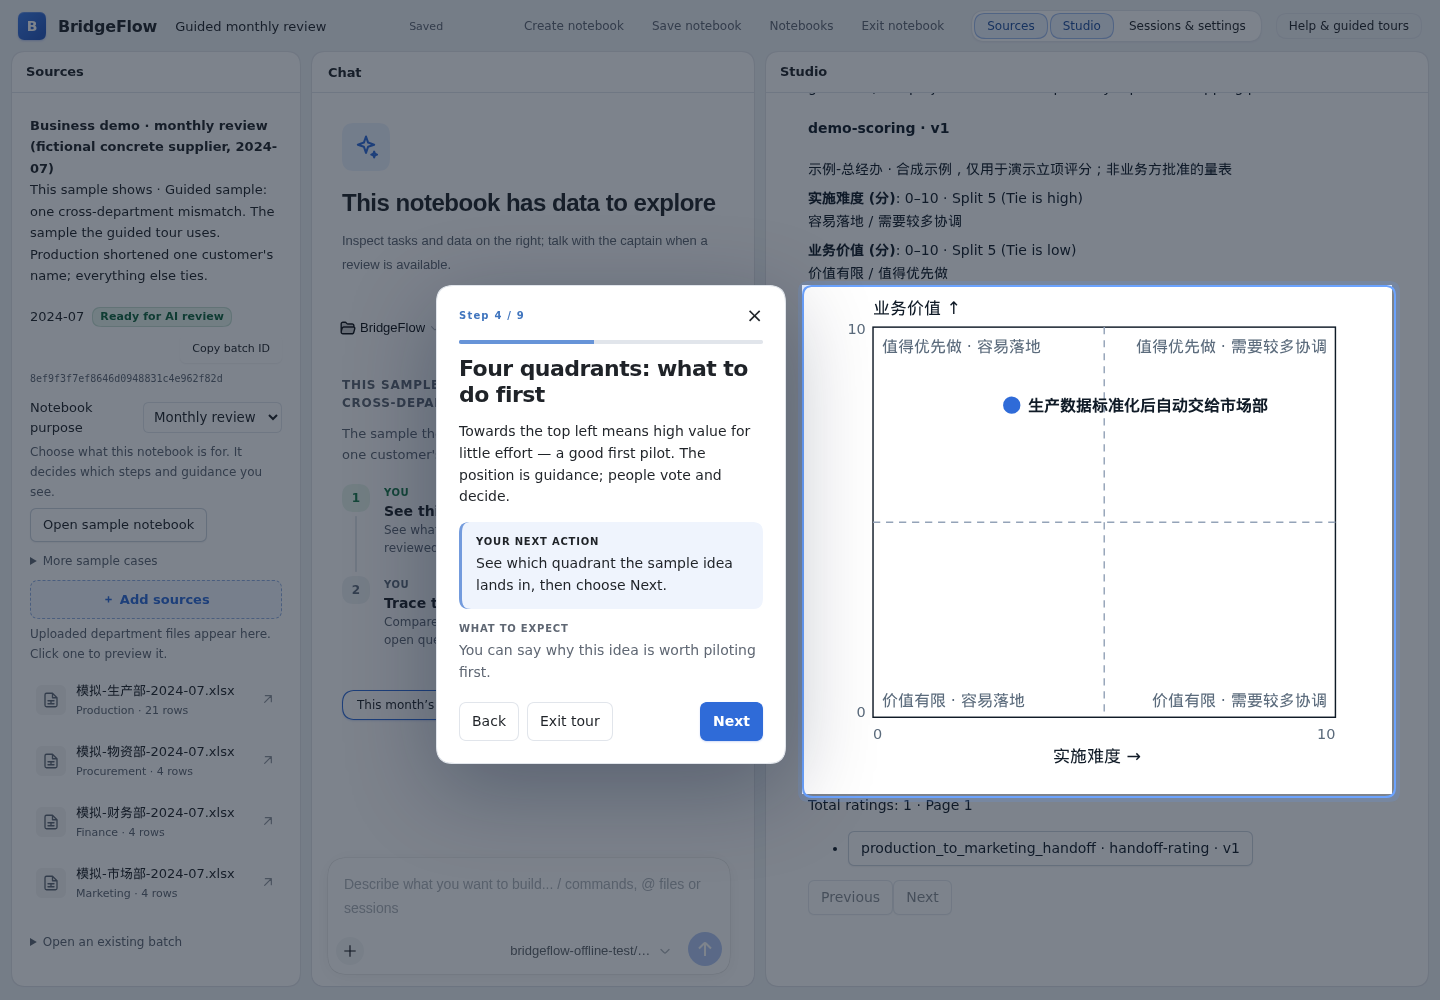
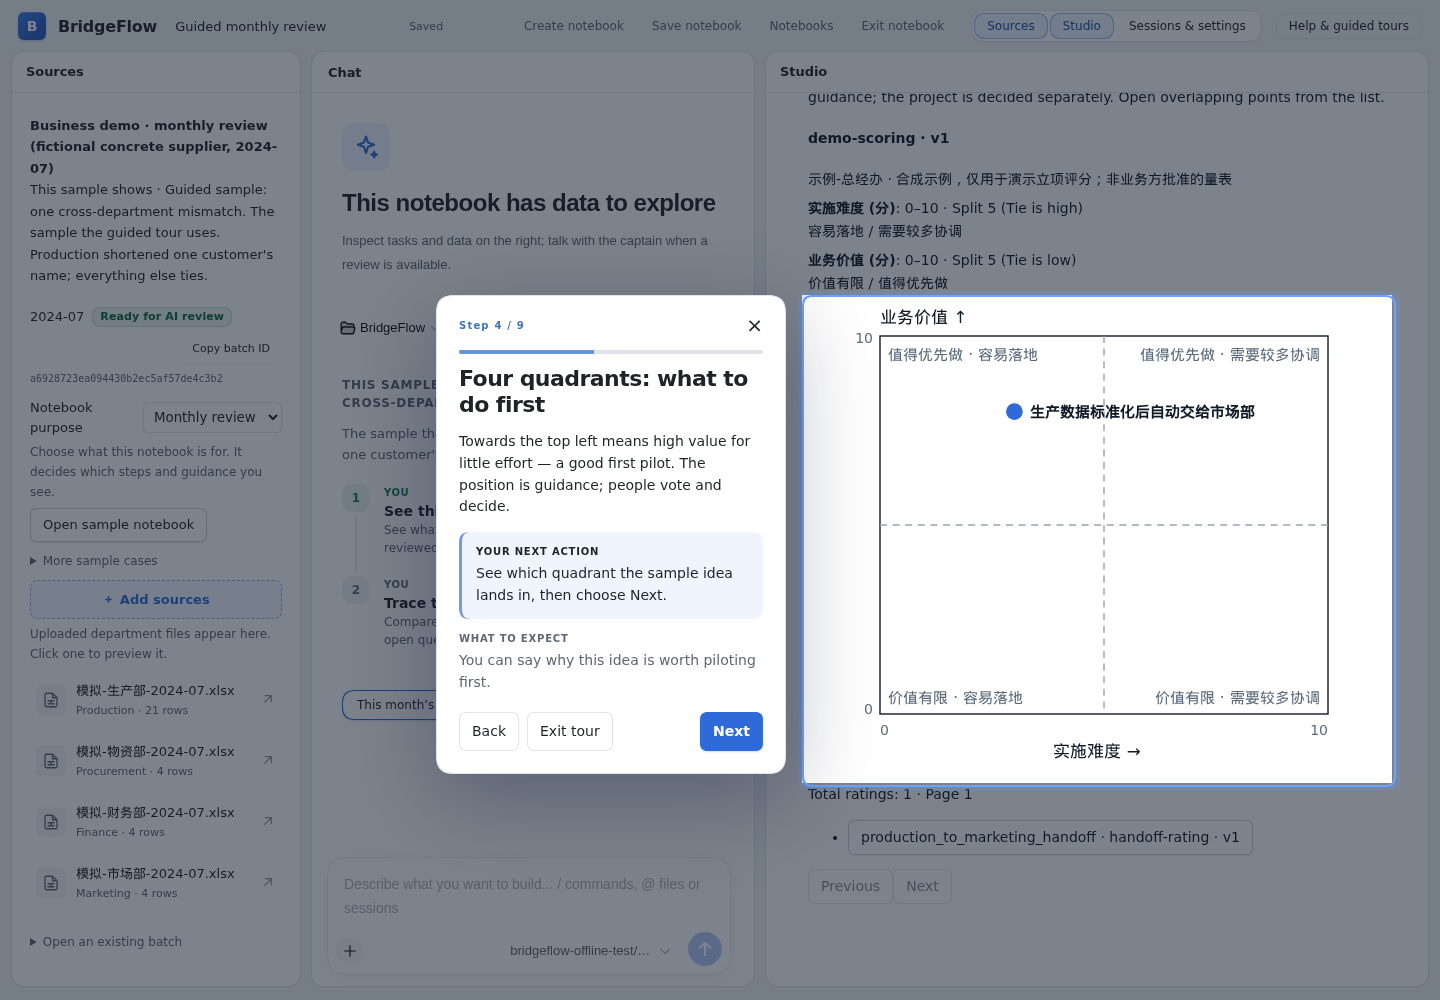
Quadrant chart keeps its drawn size in wide previews and the tour
Stretched to 100% of a wide preview, its labels grew to headline size and the plot ran off the
window. It now caps at 560px wide and 60% of the viewport high, centred.

Claude-Session: https://claude.ai/code/session_013WezsZhBXNNTpXPTW1RPMD

diff --git a/plugins/src/client/discovery-scoring.tsx b/plugins/src/client/discovery-scoring.tsx
@@ -78,7 +78,7 @@ export function ScoreBoard({ project, onEdit }: { project: string; onEdit: (scor
   return <section aria-label={zh ? '评分四象限' : 'Rating quadrants'}><h3>{zh ? '评分四象限' : 'Rating quadrants'}</h3><button onClick={() => setRevision(n => n + 1)}>{t('refresh')}</button>
     <p>{zh ? '只画出当前量表下依据齐全的评分；点的位置只是参考，立项要另行决定。重叠的点可以从列表里分别打开。' : 'Only complete scores under the current scale are plotted. A point\'s position is guidance; the project is decided separately. Open overlapping points from the list.'}</p>
     {error && <p role="alert">{error}</p>}{policy && page && <><PolicyView policy={policy} />
-      <div data-tour-id="quadrant-chart"><svg role="img" aria-label={zh ? '投入与价值四象限' : 'Effort and value quadrants'} viewBox="0 0 400 340" style={{ width: '100%' }}>
+      <div data-tour-id="quadrant-chart"><svg role="img" aria-label={zh ? '投入与价值四象限' : 'Effort and value quadrants'} viewBox="0 0 400 340" className="bf-quadrant">
         <rect x="45" y="25" width="320" height="270" fill="none" stroke="currentColor" />
         <path d={`M ${45 + split(policy.effort) * 320} 25 V 295 M 45 ${295 - split(policy.value) * 270} H 365`} stroke="#94a3b8" strokeDasharray="5 4" />
         <text x="200" y="326" textAnchor="middle" fontSize="12" fill="currentColor">{policy.effort.title} →</text><text x="45" y="16" fontSize="12" fill="currentColor">{policy.value.title} ↑</text>

diff --git a/plugins/src/client/style.ts b/plugins/src/client/style.ts
@@ -821,6 +821,9 @@ body[data-ds-dark-theme] .bf-panel::backdrop { background: #04080d9e }
 .bf-approval-check { margin: 8px 0 4px; font-size: 12px; font-weight: 600 }
 .bf-approval-technical { margin-top: 8px; font-size: 12px; color: var(--bf-muted) }
 .bf-approval-technical summary { cursor: pointer }
+/* The chart keeps the size it was drawn at: stretched to a wide preview, its labels grew to
+   headline size and the plot ran past the bottom of the window. */
+.bf-quadrant { display: block; width: 100%; max-width: 560px; height: auto; max-height: 60vh; margin: 0 auto }
 .bf-quadrant-label { fill: var(--bf-muted) }
 .bf-quadrant-name { fill: var(--bf-text); font-weight: 600 }
 .bf-quadrant-dot { fill: var(--bf-chart-mark); stroke: var(--bf-surface); stroke-width: 2; cursor: pointer }

diff --git a/HANDOFF.md b/HANDOFF.md
@@ -4,6 +4,10 @@
 
 **27 日前收口**：以 [当前演示闸门](docs/00-status.md)为准。暂停新增功能和未经业务原件支持的需求；只修现有演示链路的阻断、错误表述与回归。#261 继续放在交付后；#228 先保留已测上限与样例边界，#247 不因口头要求直接合入。
 
+## 2026-09-25 四象限图不再被拉大（分支 `fix/quadrant-size`）
+
+- 用户原话：「这玩意图有点比例问题，在三栏视图下相对正常，但是 tour 里宽高比变化导致效果较差」。原因是图宽写死为 100%，在宽预览和引导里被放大，字号接近标题，图也超出窗口底部。现在宽度最多 560px、高度最多窗口的 60%，并居中显示。tour-smoke 和 workflow-journey 都通过。
+
 ## 2026-09-25 数字动效不再出现小数、发给队长的请求跟随界面语言、部署预检修复（分支 `fix/countup-and-prompt-language`）
 
 - **数字动效**（用户原话：「3 need attention · 7 OK · 1 Open items 有疑似加载变换数字的动效或者 bug？……现在好多位小数就很离谱也不美观」）：`CountUp` 把动画中间值原样交给显示，整数计数就出现了「2.37」这样的中间态。现在中间值按目标值的小数位取整，整数只会一格一格跳整数。
